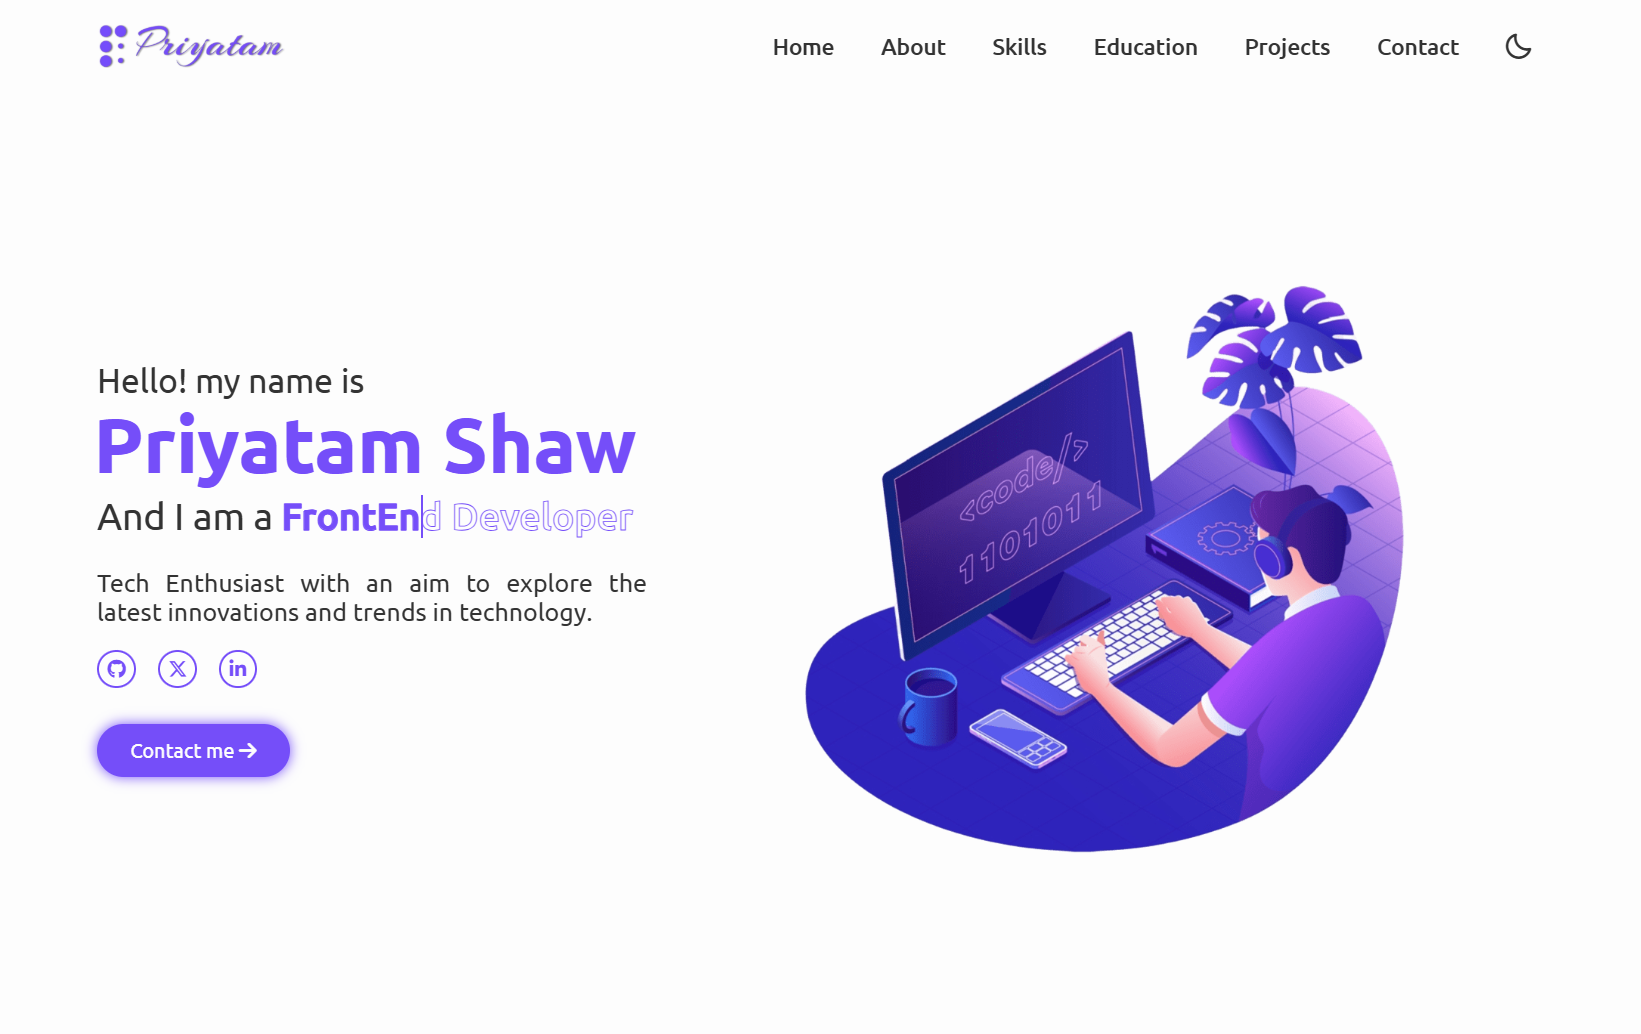
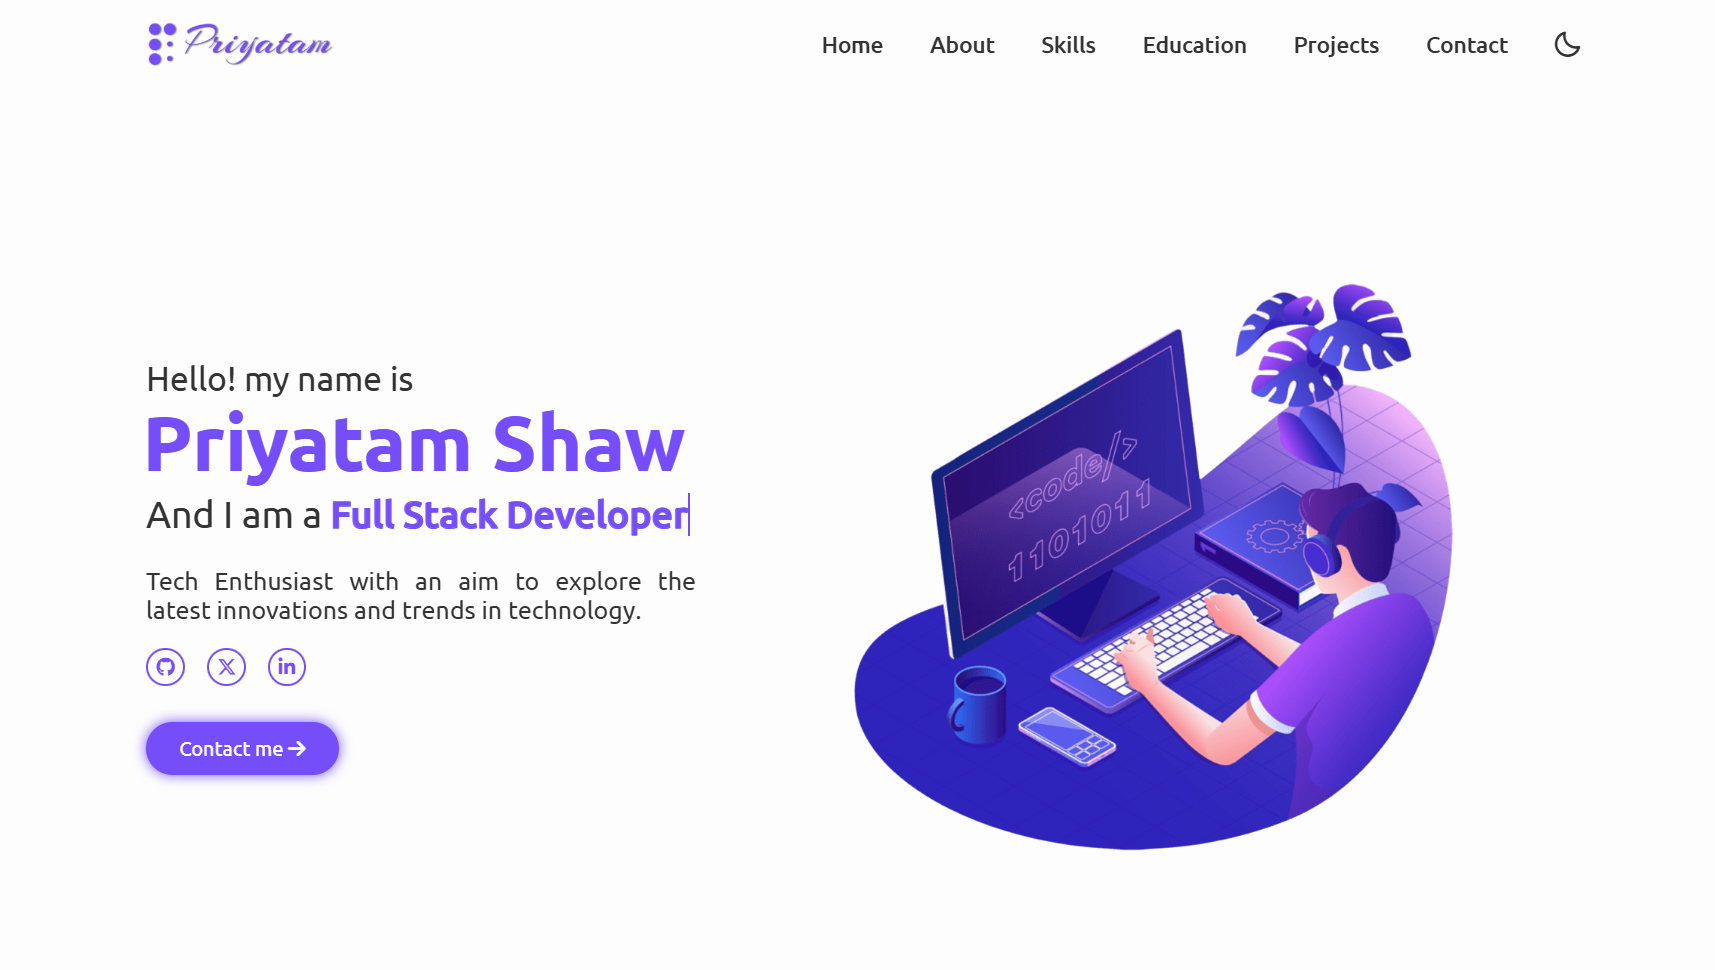
ui changed

diff --git a/index.html b/index.html
@@ -81,7 +81,7 @@
                         (DSA) using Java, Full Stack Development.</p>
                     <p>I am always eager to learn new things and apply my knowledge in real-world challenges to expand
                         my horizons. I believe in being realistic.</p>
-                    <a href="Priyatam-Resume.pdf" download>Resume <i class="fa-solid fa-arrow-right-to-bracket"></i></a>
+                    <a href="Priyatam-Resume.pdf" download><i class="fa-solid fa-arrow-right-to-bracket"></i> Download Resume</a>
                 </div>
             </div>
         </div>
@@ -94,53 +94,41 @@
             <div class="column left">
                 <h3 class="text">Technical Skills <i class="fa-solid fa-laptop-code"></i></h3>
                 <div class="skills-container">
-                    <div class="skill-box">
-                        <img src="images/C.svg" alt="c">
-                        <p>C</p>
+                    <div class="card">
+                        <h2>Languages</h2>
+                        <div class="grid">
+                            <div class="item"><img src="images/C.svg" />C</div>
+                            <div class="item"><img src="images/Java.svg" />Java</div>
+                            <div class="item"><img src="images/Python.svg" />Python</div>
+                            <div class="item"><img src="images/JavaScript.svg" />JavaScript</div>
+                        </div>
                     </div>
-                    <div class="skill-box">
-                        <img src="images/Java.svg" alt="java">
-                        <p>Java</p>
+                    <div class="card">
+                        <h2>Frontend</h2>
+                        <div class="grid">
+                            <div class="item"><img src="images/HTML5.svg" />HTML</div>
+                            <div class="item"><img src="images/CSS3.svg" />CSS</div>
+                            <div class="item"><img src="images/JavaScript.svg" />JavaScript
+                            </div>
+                            <div class="item"><img src="images/React.svg" />React JS
+                            </div>
+                            <div class="item"><img src="images/Tailwind CSS.svg" />Tailwind CSS
+                            </div>
+                            <div class="item"><img src="images/Bootstrap.svg" />Bootstrap</div>
+                        </div>
                     </div>
-                    <div class="skill-box">
-                        <img src="images/Python.svg" alt="python">
-                        <p>Python</p>
-                    </div>
-                    <div class="skill-box">
-                        <img src="images/HTML5.svg" alt="">
-                        <p>HTML5</p>
-                    </div>
-                    <div class="skill-box">
-                        <img src="images/CSS3.svg" alt="">
-                        <p>CSS3</p>
-                    </div>
-                    <div class="skill-box">
-                        <img src="images/JavaScript.svg" alt="">
-                        <p>JavaScript</p>
-                    </div>
-                    <div class="skill-box">
-                        <img src="images/React.svg" alt="">
-                        <p>React</p>
-                    </div>
-                    <div class="skill-box">
-                        <img src="images/Next.js.svg" alt="">
-                        <p>Next.js</p>
-                    </div>
-                    <div class="skill-box">
-                        <img src="images/Tailwind CSS.svg" alt="">
-                        <p>Tailwind CSS</p>
-                    </div>
-                    <div class="skill-box">
-                        <img src="images/Node.js.svg" alt="">
-                        <p>Node.js</p>
-                    </div>
-                    <div class="skill-box">
-                        <img src="images/MongoDB.svg" alt="">
-                        <p>MongoDB</p>
-                    </div>
-                    <div class="skill-box">
-                        <img src="images/MySQL.svg" alt="">
-                        <p>MySQL</p>
+
+                    <div class="card">
+                        <h2>Backend</h2>
+                        <div class="grid">
+                            <div class="item"><img src="images/Node.js.svg" />Node JS</div>
+                            <div class="item"><img src="images/Express.svg" />Express
+                                JS</div>
+                                <div class="item"><img src="images/MongoDB.svg" />MongoDB</div>
+                                <div class="item"><img src="images/MySQL.svg" />MySQL</div>
+                                <div class="item"><img src="images/PostgresSQL.svg" />PostgresSQL</div>
+                                
+                            </div>
                     </div>
                 </div>
             </div>
@@ -231,13 +219,13 @@
                 <img src="images\project6.png" alt="">
                 <div class="project-layer">
                     <h4>Stayfinity</h4>
-                    <p>A modern responsive hotel booking website features - browse hotels, user authentication, admin dashboard and
+                    <p>A modern responsive hotel booking website features - browse hotels, user authentication, admin
+                        dashboard and
                         check hotel availability and so on.</p>
                     <div class="project-btn-grp">
                         <a href="https://github.com/priyatamshaw03" target="_blank"><button
                                 class="project-btn github">Github <i class="fa-solid fa-link"></i></button></a>
-                        <a href="#" target="_blank"><button
-                                class="project-btn live">See Live <i
+                        <a href="#" target="_blank"><button class="project-btn live">See Live <i
                                     class="fa-solid fa-up-right-from-square"></i></button></a>
                     </div>
                 </div>

diff --git a/style.css b/style.css
@@ -326,7 +326,7 @@ span {
 .skills .skills-content .left,
 .skills .skills-content .right{
     font-family: "ubuntu", sans-serif;
-    height: 550px;
+    height: auto;
 }
 .skills .skills-content .left .text,
 .skills .skills-content .right .text{
@@ -335,58 +335,69 @@ span {
     font-weight: 600;
     margin-bottom: 30px;
 }
-.skills .skills-content .left .bars{
-    margin-bottom: 20px;
-}
 .skills .skills-content .left .info{
     display: flex;
     margin-bottom: 6px;
     align-items: center;
     justify-content: space-between;
 }
-.skills .skills-content .left span{
-    font-weight: 500;
-    font-size: 18px;
-}
 
 .skills-container {
-  display: grid;
-  grid-template-columns: repeat(auto-fit, minmax(100px, 1fr));
-  gap: 20px;
-  justify-items: center;
-
+  display: flex;
+  flex-wrap: wrap;
+  gap: 16px;
+  justify-content: center;
+}
+.card {
+  background-color: var(--bg-color);
+  padding: 15px;
+  border-radius: 20px;
+  width: 500px;
+  box-shadow: 0 0 5px var(--main-color);
+  transition: transform 0.2s ease;
 }
 
-.skill-box {
-  background: var(--bg-color);
-  border-radius: 12px;
-  box-shadow: 0 4px 10px rgba(0, 0, 0, 0.1);
-  border-top: 3px solid var(--main-color);
-  border-bottom: 3px solid var(--main-color);
-  text-align: center;
-  padding: 20px 10px;
-  transition: transform 0.3s ease;
-  width: 100px;
-  height: 115px;
-}
-
-.skill-box:hover {
+.card:hover {
   transform: translateY(-5px);
 }
 
-.skill-box img {
-  width: 50px;
-  height: 50px;
-  object-fit: contain;
-  margin-bottom: 10px;
+.card h2 {
+  text-align: center;
+  font-size: 22px;
+  margin-bottom: 15px;
+  color: var(--main-color);
 }
 
-.skill-box p {
-  margin: 0;
+.grid {
+  display: flex;
+  flex-wrap: wrap;
+  gap: 10px;
+  justify-content: center;
+}
+
+.item {
+  background-color: var(--bg-color);
+  color: var(--text-color);
+  padding: 8px 12px;
+  border-radius: 16px;
+  border-top: 2px solid var(--main-color);
+  border-bottom: 2px solid var(--main-color);
+  display: flex;
+  align-items: center;
   font-size: 14px;
-  
+  gap: 6px;
+  transition: all 0.2s ease;
 }
 
+.item img {
+  width: 24px;
+  height: 24px;
+}
+
+.item:hover {
+  background-color: var(--main-color);
+  color: var(--white-color);
+}
 
 .experience-container {
     display: flex;
